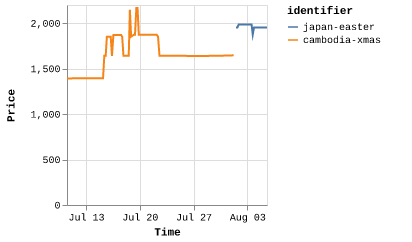
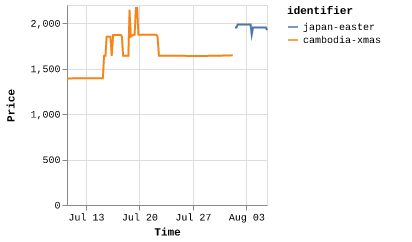
Latest scraping flights: Tue Aug  5 16:53:18 UTC 2025

diff --git a/scrapes/flights/japan-easter.md b/scrapes/flights/japan-easter.md
@@ -1,1 +1,1 @@
-€1,952
+€1,924
